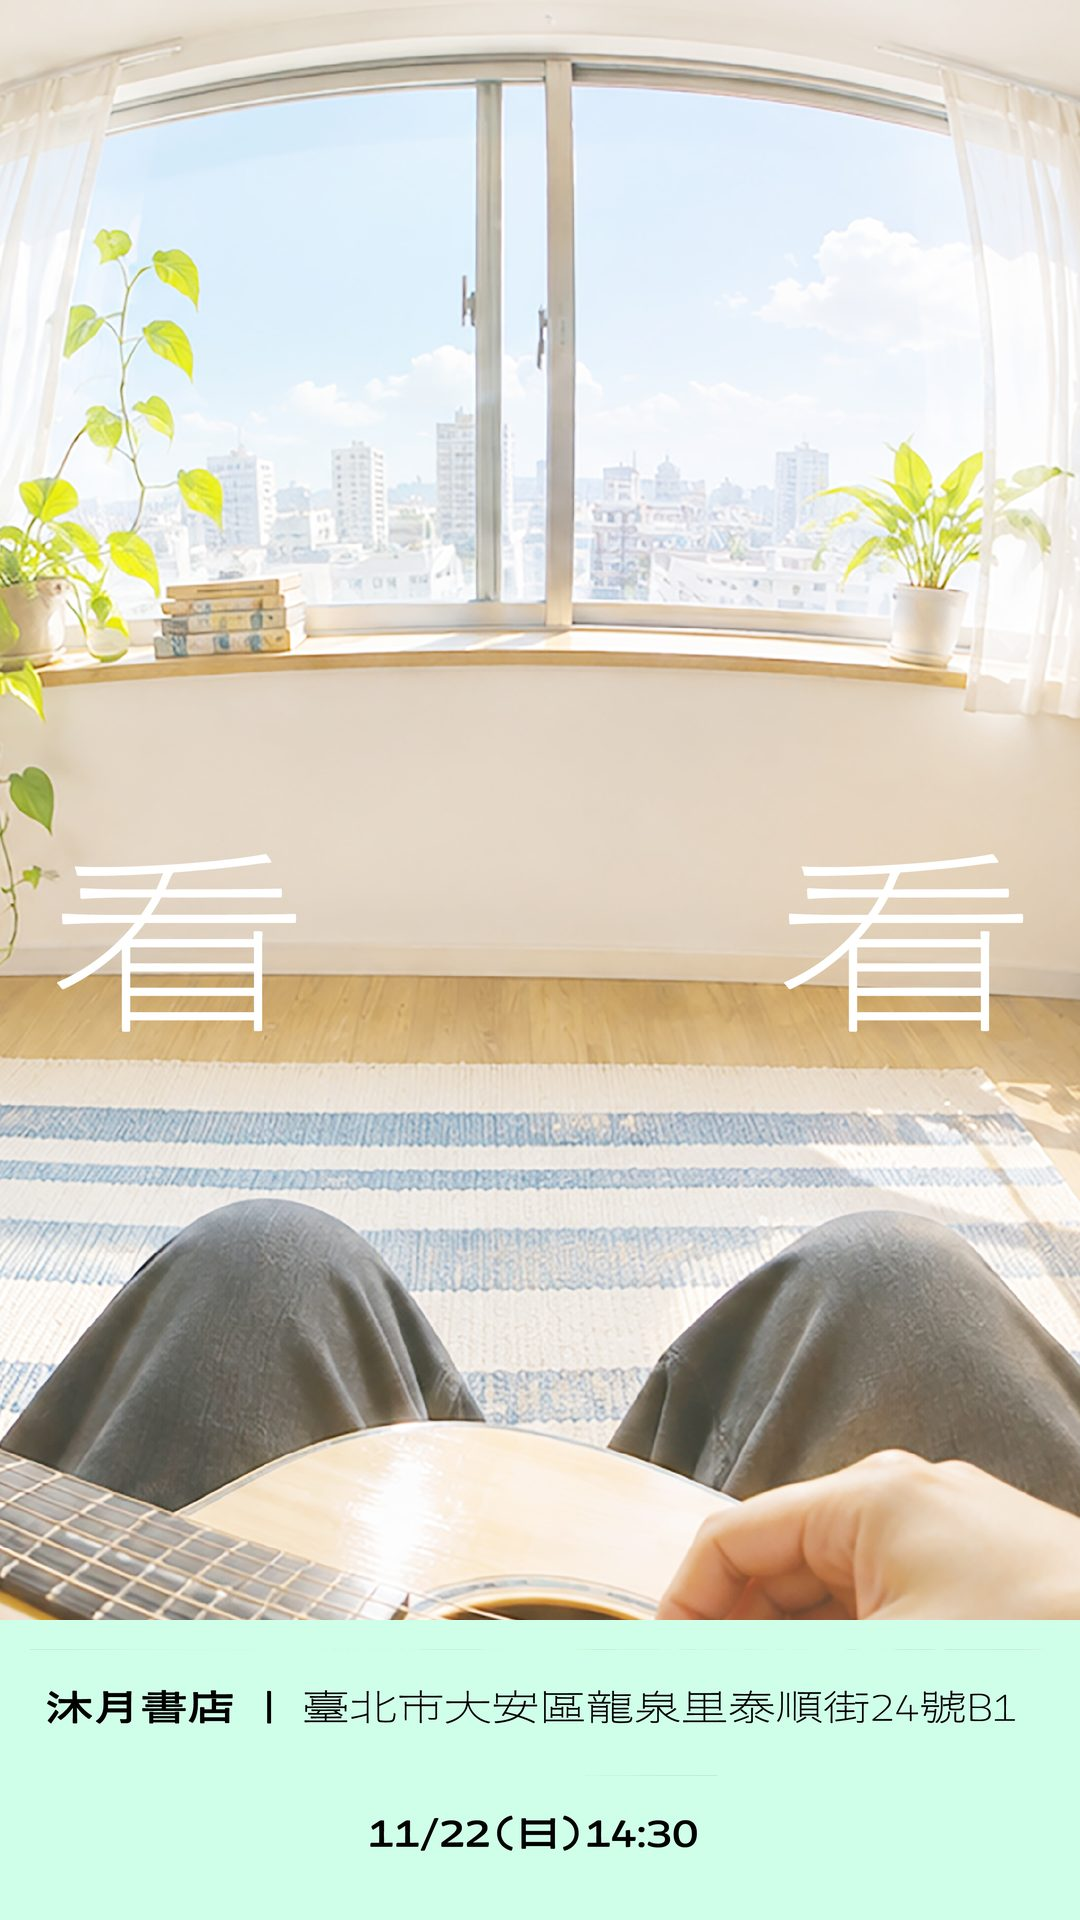
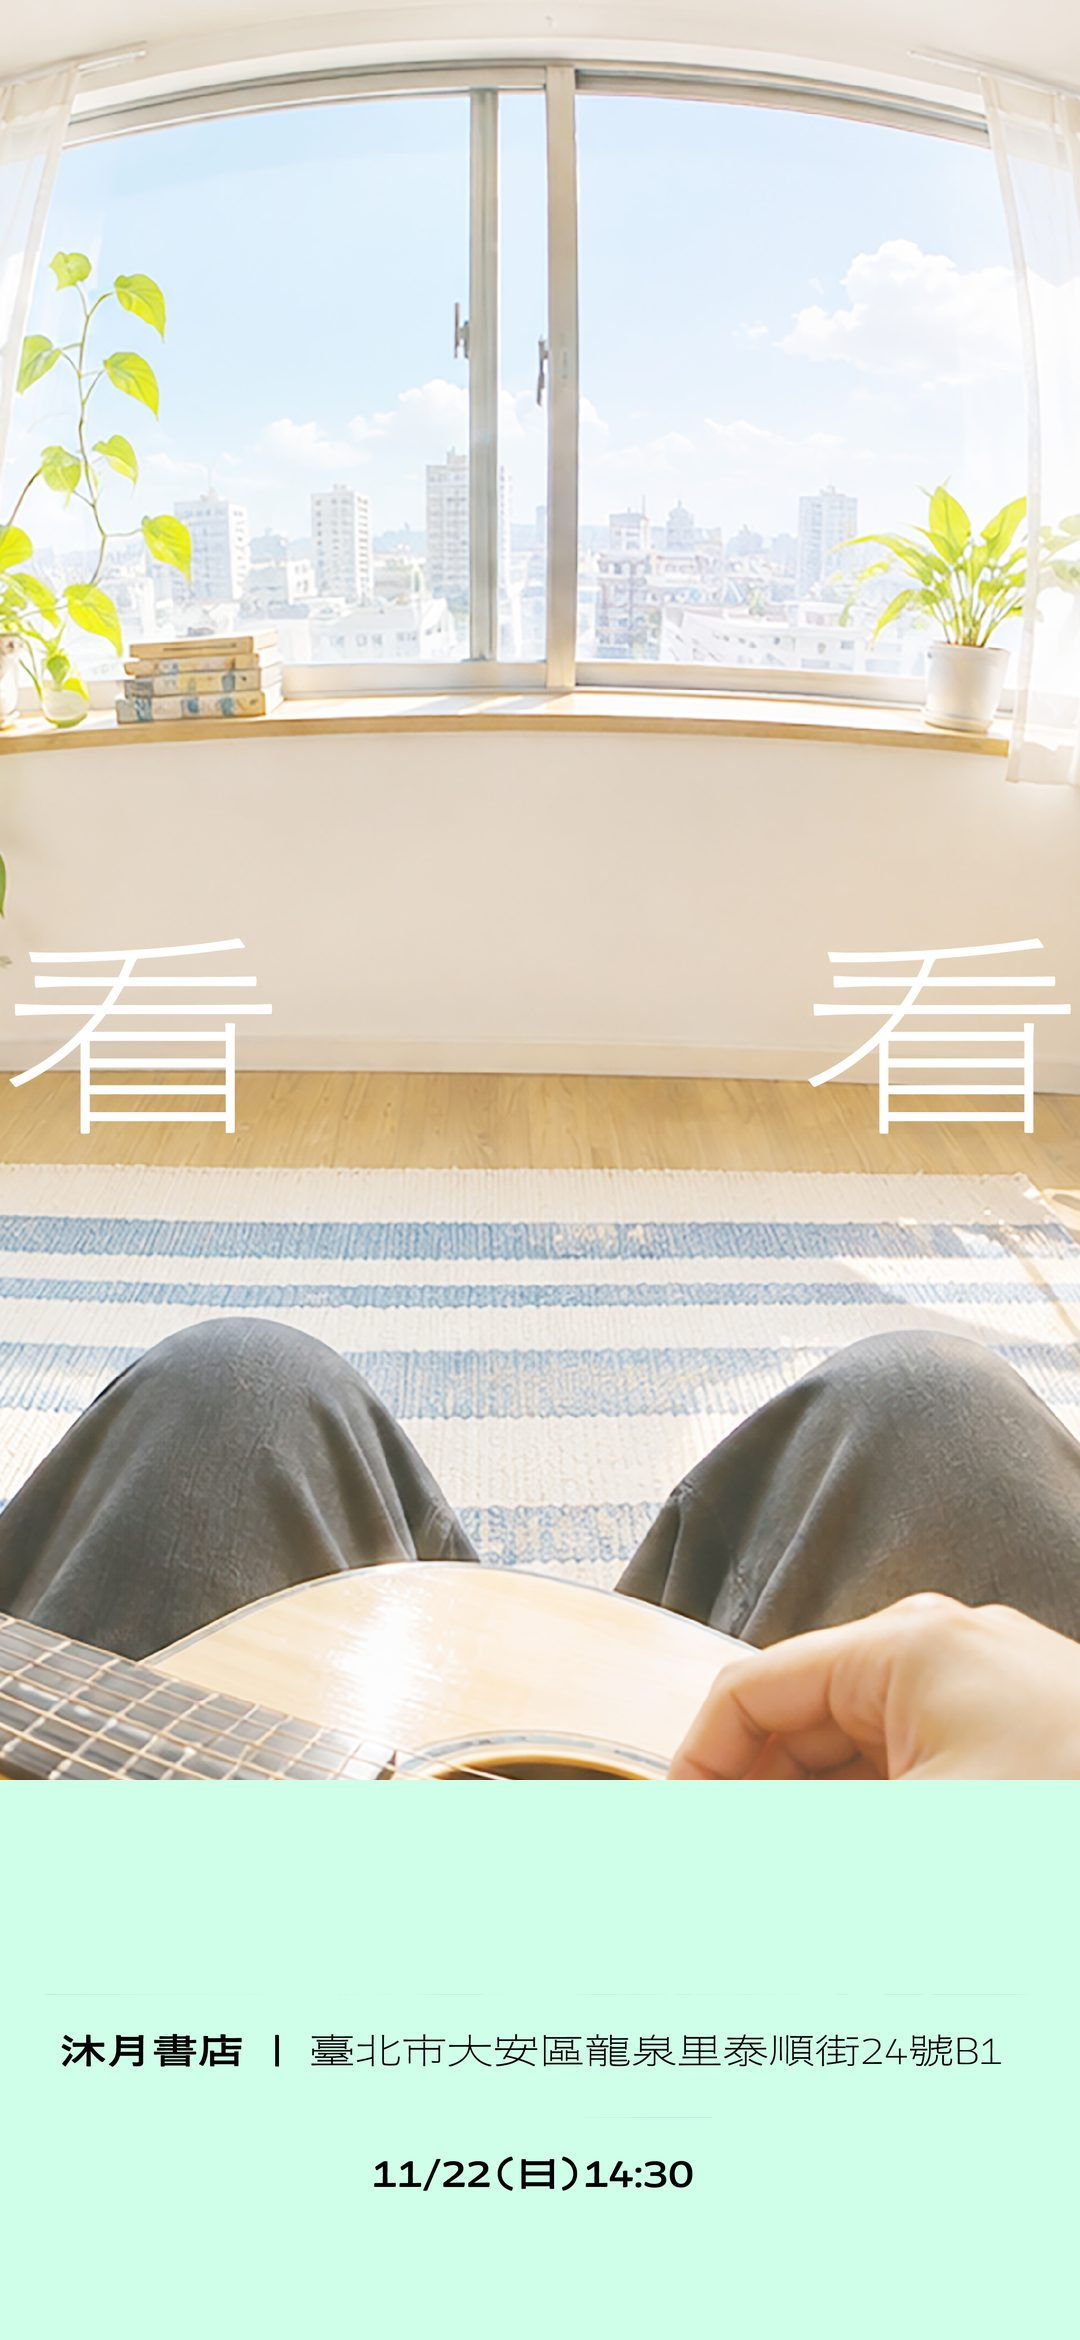
dayof: 當天 web app mockup (1116-0304)

diff --git a/dayof/index.html b/dayof/index.html
@@ -13,13 +13,13 @@
 <meta property="og:image" content="https://guah123.github.io/kk1122-filters/dayof/assets/key-visual-og.jpg">
 <meta property="og:type" content="website">
 <link rel="icon" href="data:,">
-<script src="config.js?v=261116j"></script>
-<link rel="stylesheet" href="css/base.css?v=261116j">
-<link rel="stylesheet" href="css/where.css?v=261116j">
-<link rel="stylesheet" href="css/camera.css?v=261116j">
-<link rel="stylesheet" href="css/suitcase.css?v=261116j">
-<link rel="stylesheet" href="css/quiz.css?v=261116j">
-<link rel="stylesheet" href="css/finale.css?v=261116j">
+<script src="config.js?v=261116k"></script>
+<link rel="stylesheet" href="css/base.css?v=261116k">
+<link rel="stylesheet" href="css/where.css?v=261116k">
+<link rel="stylesheet" href="css/camera.css?v=261116k">
+<link rel="stylesheet" href="css/suitcase.css?v=261116k">
+<link rel="stylesheet" href="css/quiz.css?v=261116k">
+<link rel="stylesheet" href="css/finale.css?v=261116k">
 </head>
 <body>
 <div id="app"></div>
@@ -29,37 +29,37 @@
   </div>
 </noscript>
 
-<script src="js/core/icons.js?v=261116j"></script>
-<script src="js/core/flow.js?v=261116j"></script>
-<script src="js/core/api.js?v=261116j"></script>
-<script src="js/core/filterstack.js?v=261116j"></script>
+<script src="js/core/icons.js?v=261116k"></script>
+<script src="js/core/flow.js?v=261116k"></script>
+<script src="js/core/api.js?v=261116k"></script>
+<script src="js/core/filterstack.js?v=261116k"></script>
 
-<script src="js/camera/camera.js?v=261116j"></script>
-<script src="js/camera/rain.js?v=261116j"></script>
-<script src="js/camera/fisheye.js?v=261116j"></script>
+<script src="js/camera/camera.js?v=261116k"></script>
+<script src="js/camera/rain.js?v=261116k"></script>
+<script src="js/camera/fisheye.js?v=261116k"></script>
 
-<script src="js/where/chars.js?v=261116j"></script>
-<script src="js/where/engine.js?v=261116j"></script>
-<script src="js/where/scenes/park.js?v=261116j"></script>
-<script src="js/where/scenes/escalator.js?v=261116j"></script>
-<script src="js/where/scenes/bridge.js?v=261116j"></script>
-<script src="js/where/scenes/bookstore.js?v=261116j"></script>
-<script src="js/where/scenes/office.js?v=261116j"></script>
-<script src="js/where/scenes/fireworks.js?v=261116j"></script>
-<script src="js/where/scenes/newyork.js?v=261116j"></script>
+<script src="js/where/chars.js?v=261116k"></script>
+<script src="js/where/engine.js?v=261116k"></script>
+<script src="js/where/scenes/park.js?v=261116k"></script>
+<script src="js/where/scenes/escalator.js?v=261116k"></script>
+<script src="js/where/scenes/bridge.js?v=261116k"></script>
+<script src="js/where/scenes/bookstore.js?v=261116k"></script>
+<script src="js/where/scenes/office.js?v=261116k"></script>
+<script src="js/where/scenes/fireworks.js?v=261116k"></script>
+<script src="js/where/scenes/newyork.js?v=261116k"></script>
 
-<script src="js/pages/landing.js?v=261116j"></script>
-<script src="js/pages/form.js?v=261116j"></script>
-<script src="js/pages/rules.js?v=261116j"></script>
-<script src="js/pages/lyrics.js?v=261116j"></script>
-<script src="js/pages/where.js?v=261116j"></script>
-<script src="js/pages/qa.js?v=261116j"></script>
-<script src="js/pages/suitcase.js?v=261116j"></script>
-<script src="js/pages/yesno.js?v=261116j"></script>
-<script src="js/pages/photo.js?v=261116j"></script>
-<script src="js/pages/credits.js?v=261116j"></script>
-<script src="js/pages/egg.js?v=261116j"></script>
+<script src="js/pages/landing.js?v=261116k"></script>
+<script src="js/pages/form.js?v=261116k"></script>
+<script src="js/pages/rules.js?v=261116k"></script>
+<script src="js/pages/lyrics.js?v=261116k"></script>
+<script src="js/pages/where.js?v=261116k"></script>
+<script src="js/pages/qa.js?v=261116k"></script>
+<script src="js/pages/suitcase.js?v=261116k"></script>
+<script src="js/pages/yesno.js?v=261116k"></script>
+<script src="js/pages/photo.js?v=261116k"></script>
+<script src="js/pages/credits.js?v=261116k"></script>
+<script src="js/pages/egg.js?v=261116k"></script>
 
-<script src="js/core/app.js?v=261116j"></script>
+<script src="js/core/app.js?v=261116k"></script>
 </body>
 </html>

diff --git a/dayof/css/base.css b/dayof/css/base.css
@@ -176,7 +176,7 @@ a{color:var(--sky-deep)}
    Pages 1–3 (landing / form / rules) — owned by design (I)
    ====================================================================== */
 .page-landing,.page-form,.page-rules{background:var(--cream)}
-.dx-bg{position:absolute;inset:0;background:var(--cream) url("../assets/key-visual-portrait.jpg") center/cover no-repeat}
+.dx-bg{position:absolute;inset:0;background:var(--cream) url("../assets/key-visual-portrait.jpg") center bottom/cover no-repeat}
 @media (min-aspect-ratio:1/1){ .dx-bg{background-image:url("../assets/key-visual.jpg")} }
 @media (min-width:700px){ .page-landing{max-width:none} }
 .dx-bg.soft{filter:blur(7px) saturate(1.05);transform:scale(1.08)}
